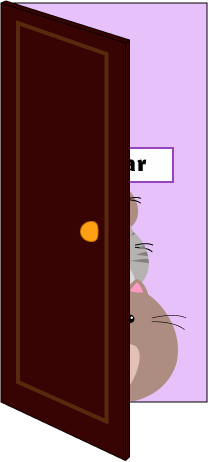
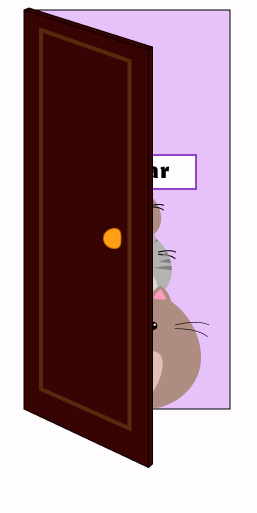
fixing door

diff --git a/inicio/style.css b/inicio/style.css
@@ -120,11 +120,15 @@ body{
   }
   
   .door:hover {
+    
     animation: openDoor 0.4s;
+    background-image: url(porta/porta10.png);
   }
   
   .closing {
+
     animation: closeDoor 0.4s;
+    background-image: url(porta/porta1.png);
   }
 
 img{

diff --git a/inicio/main.js b/inicio/main.js
@@ -49,4 +49,6 @@ door.addEventListener('mouseleave', () => {
 
 door.addEventListener('mouseenter', () => {
     door.classList.remove('closing')
+    
 })
+
